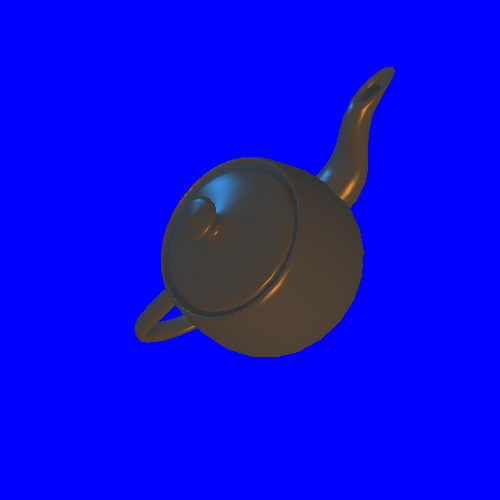
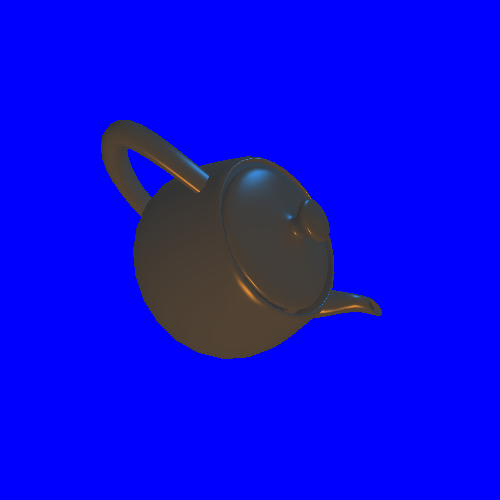
Change rotation logic by homework requirement

Changed region(s): [[0.18, 0.12, 0.81, 0.72], [0.57, 0.42, 0.6, 0.48]]

diff --git a/OpenGL/CSE167x/hw1-windows_VS2012/hw1-windows/Transform.cpp b/OpenGL/CSE167x/hw1-windows_VS2012/hw1-windows/Transform.cpp
@@ -11,15 +11,17 @@ static inline float angleToRadian(const float degree)
 
 // Helper rotation function.  
 mat3 Transform::rotate(const float degrees, const vec3& axis) {
+	vec3 normalAxis = glm::normalize(axis);
   // YOUR CODE FOR HW1 HERE
-	float k1 = axis.x;
-	float k2 = axis.y;
-	float k3 = axis.z;
+	float k1 = normalAxis.x;
+	float k2 = normalAxis.y;
+	float k3 = normalAxis.z;
 	mat3 crossPoductK = mat3(
 		0, -k3, k2,
 		k3, 0, -k1,
 		-k2, k1, 0);
-	float angleInRadian = angleToRadian(degrees);
+	
+	float angleInRadian = glm::radians(degrees);
 	mat3 identity = mat3(
 		1, 0, 0,
 		0, 1, 0,
@@ -36,24 +38,17 @@ mat3 Transform::rotate(const float degrees, const vec3& axis) {
 // Transforms the camera left around the "crystal ball" interface
 void Transform::left(float degrees, vec3& eye, vec3& up) {
   // YOUR CODE FOR HW1 HERE
-	float angle = -angleToRadian(degrees);
-	mat3 rotation = mat3
-	( cos(angle),  0, sin(angle),
-		0,					 1, 0,
-	  -sin(angle), 0, cos(angle));
+	mat3 rotation = rotate(-degrees, up);
 	eye = rotation*eye;
 	up = rotation*up;
 }
 
 // Transforms the camera up around the "crystal ball" interface
 void Transform::up(float degrees, vec3& eye, vec3& up) {
+	vec3 axis = glm::cross(eye, up);
+	
   // YOUR CODE FOR HW1 HERE 
-	float angle = angleToRadian(degrees);
-	mat3 rotation = mat3(
-		1,	0,					0,
-		0,	cos(angle), -sin(angle),
-		0,  sin(angle), cos(angle)
-	);
+	mat3 rotation = rotate(-degrees, axis);
 	eye = rotation*eye;
 	up = rotation*up;
 }
